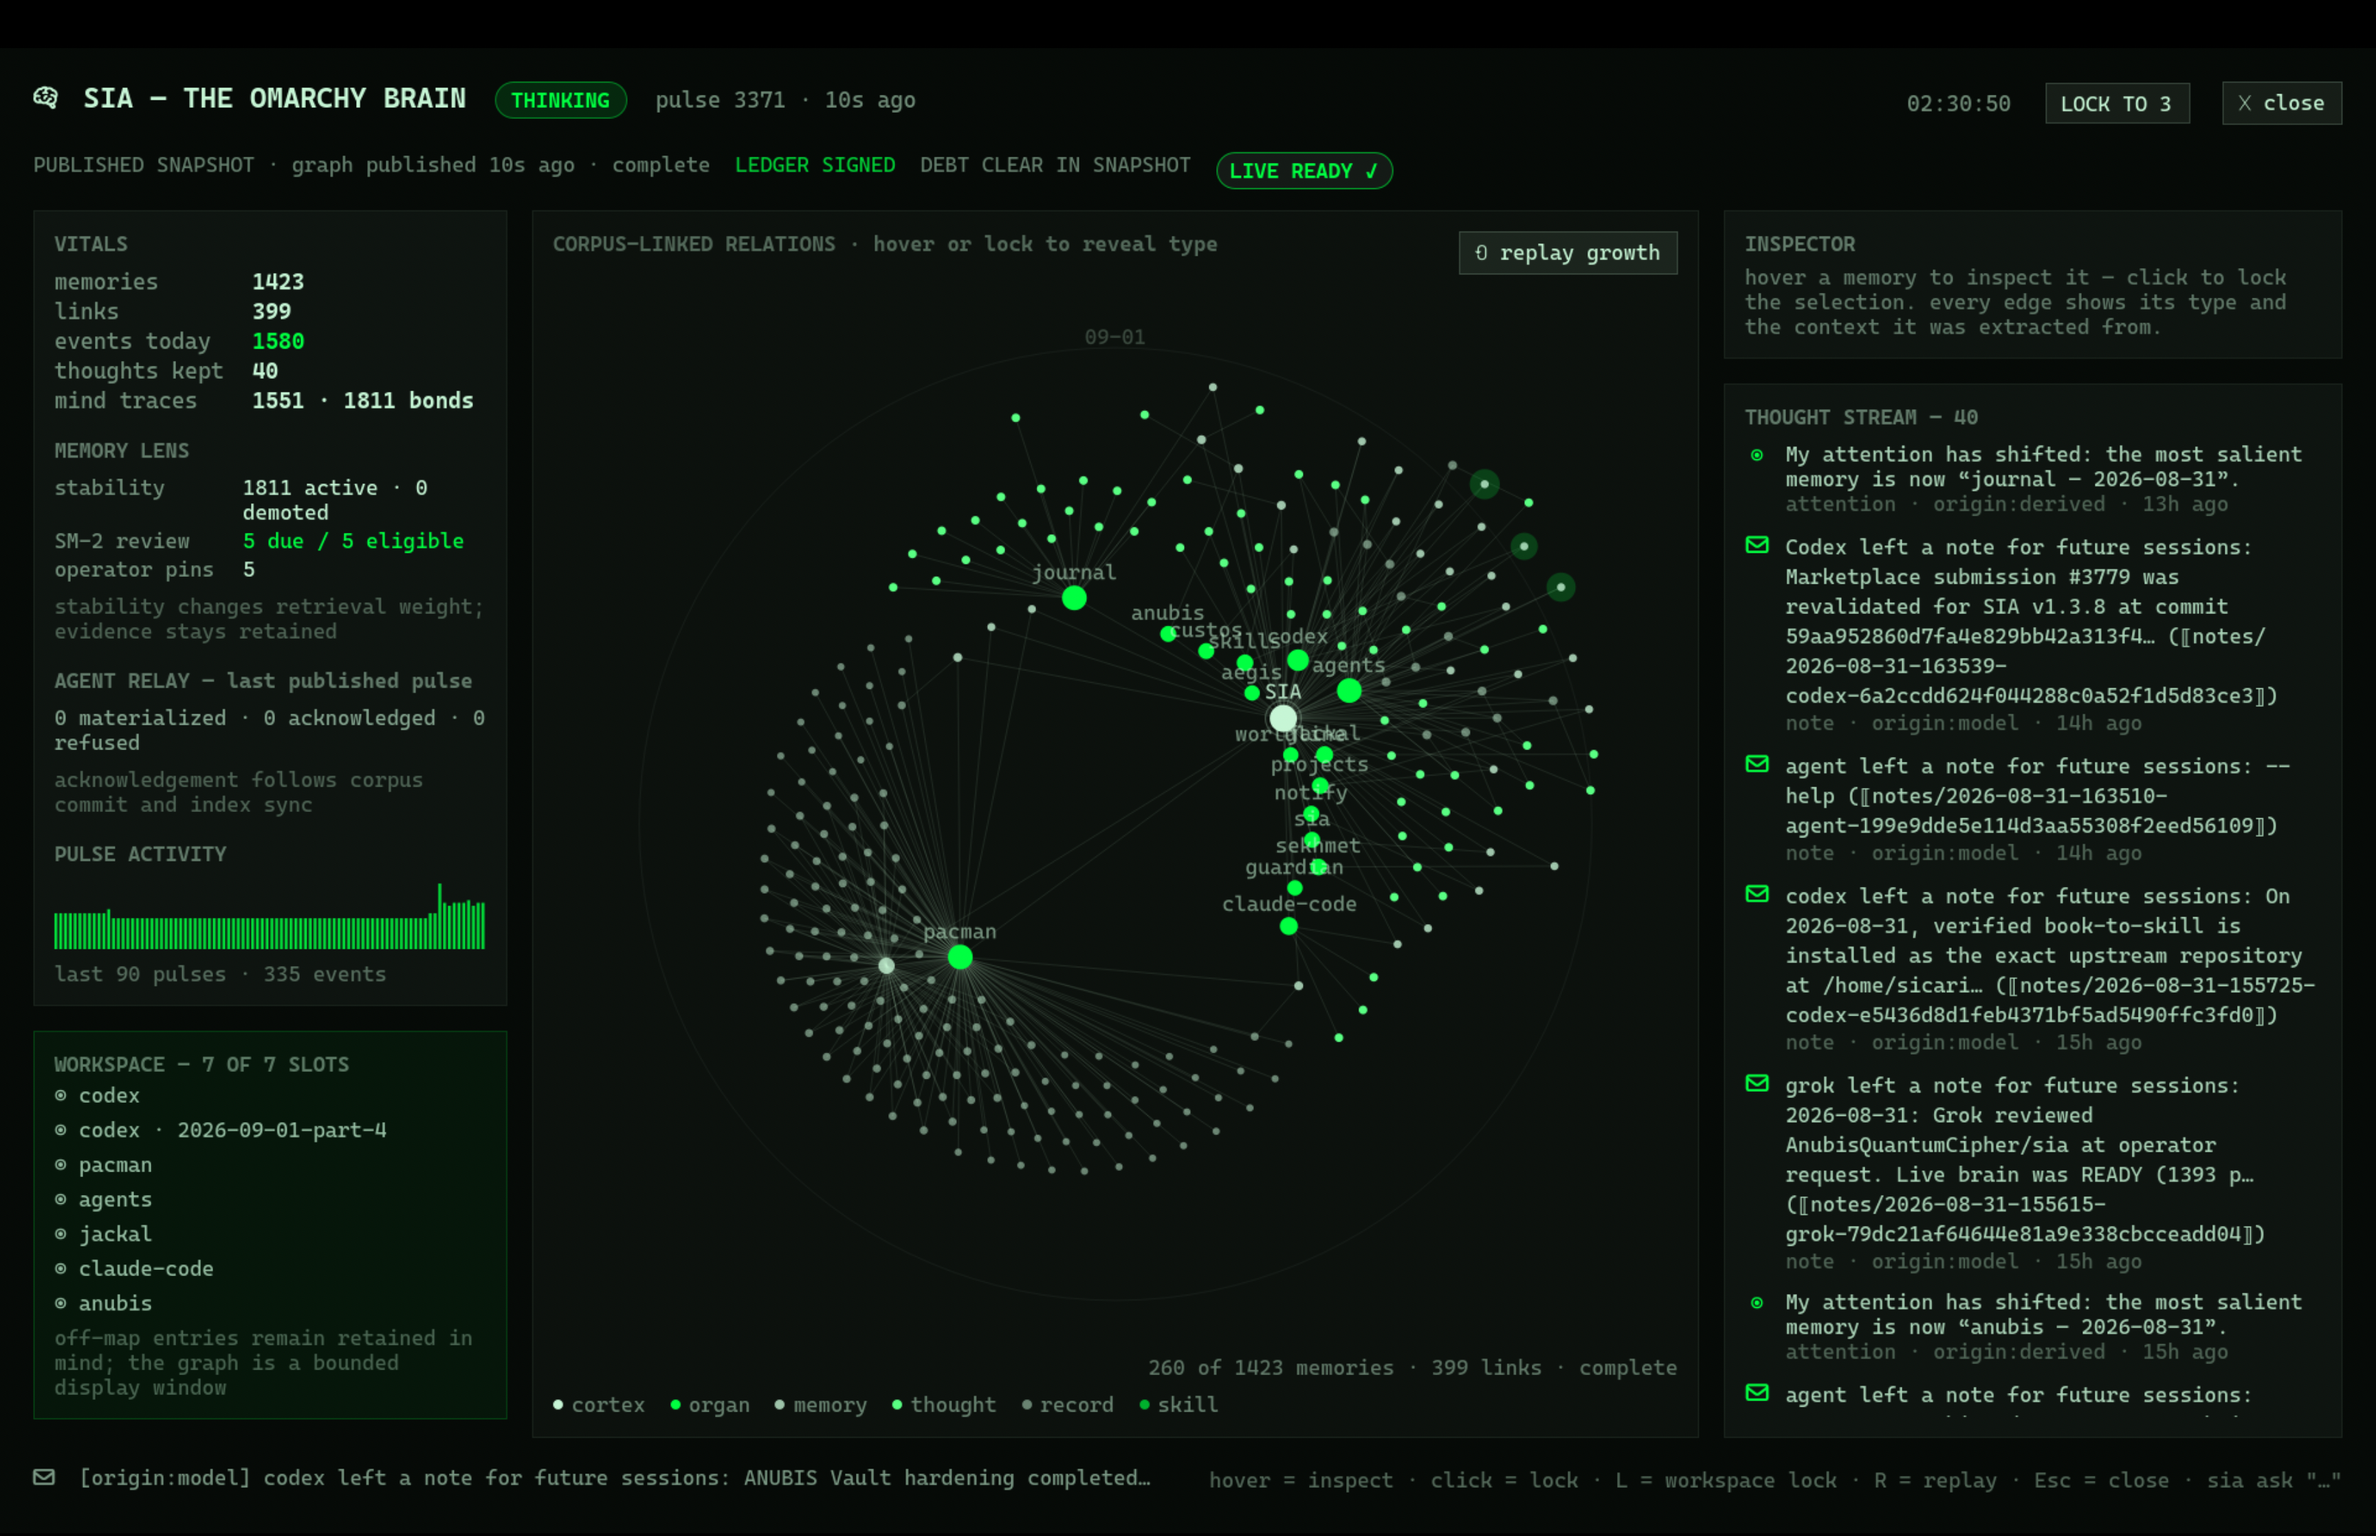
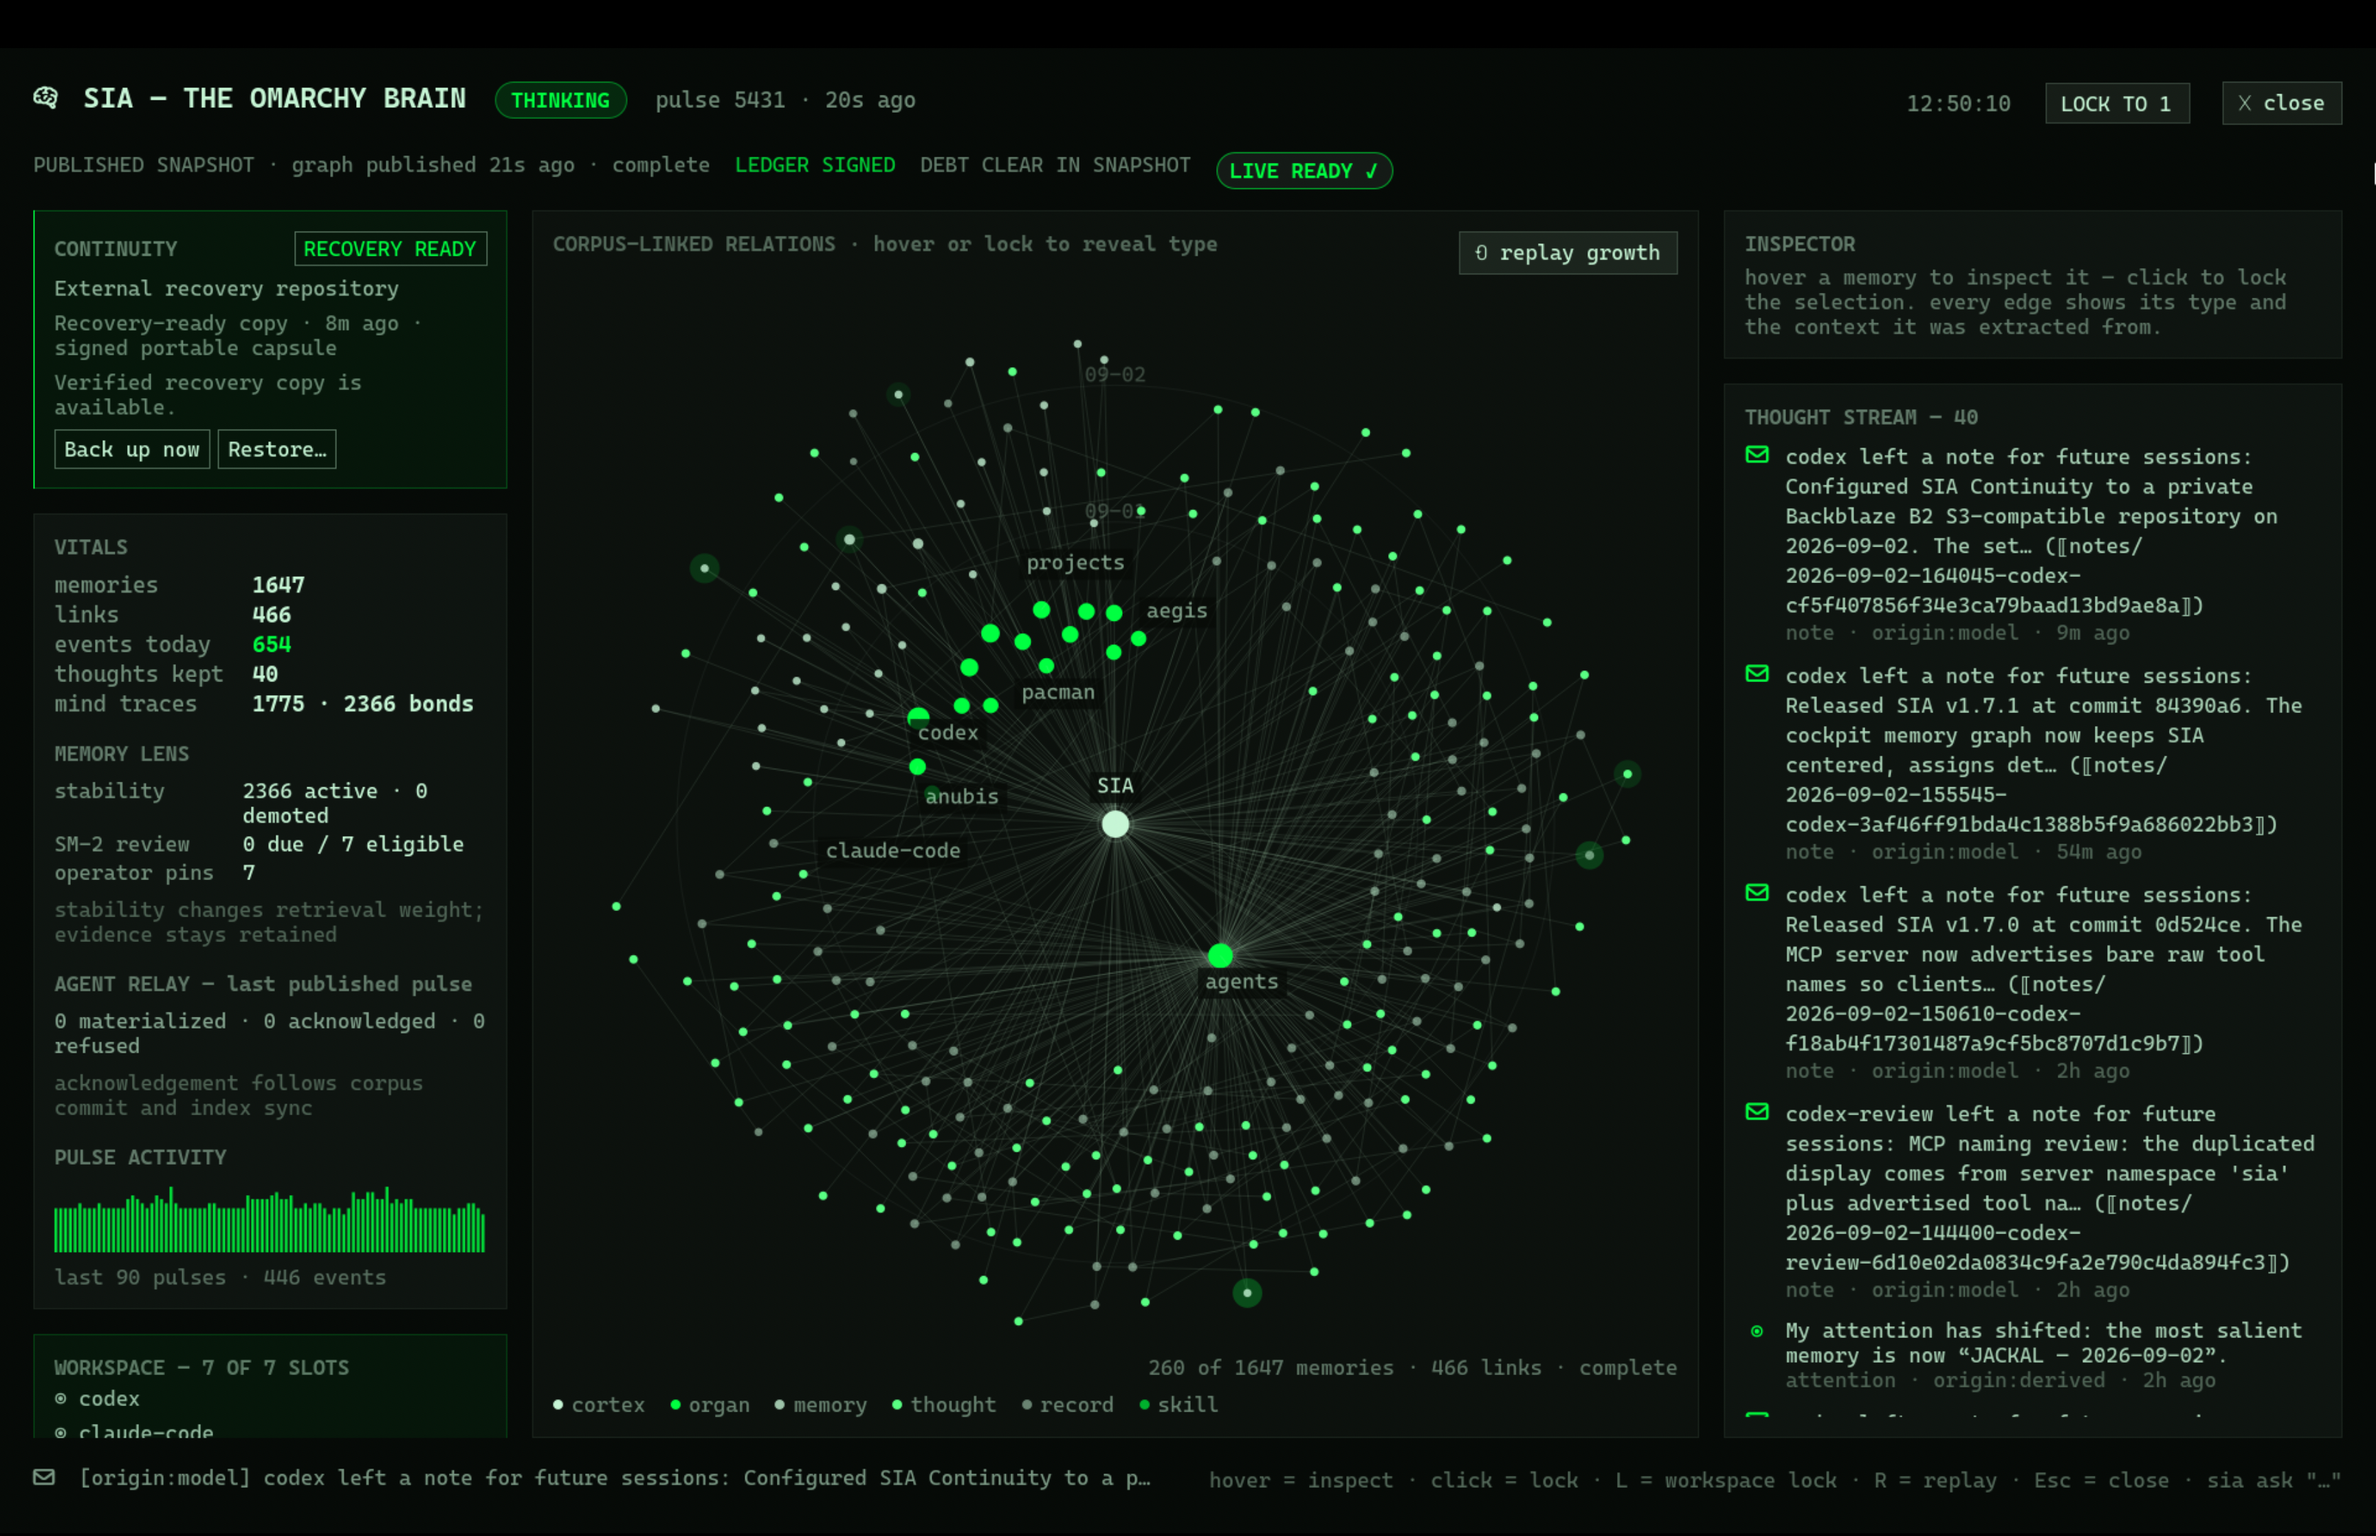
docs: refresh SIA cockpit preview

diff --git a/README.md b/README.md
@@ -21,7 +21,11 @@ the corpus is markdown in git and the daemon signs its own acts.
 center, gives semantic branches stable room around the whole field, grows
 memories outward during replay, and keeps labels from piling over one another.
 
-![The live SIA cockpit: truth ribbon, memory lens, agent relay, and knowledge graph](assets/cockpit.png)
+![The live SIA cockpit showing recovery-ready Continuity, memory health, agent relay, thought stream, and a self-organizing knowledge graph](assets/cockpit.png)
+
+*The current cockpit after a verified repository round trip. **RECOVERY
+READY** reports a ready, identity-matching recovery copy; it is not a
+substitute for the clean-machine restore drill.*
 
 ## Install (Omarchy)
 
